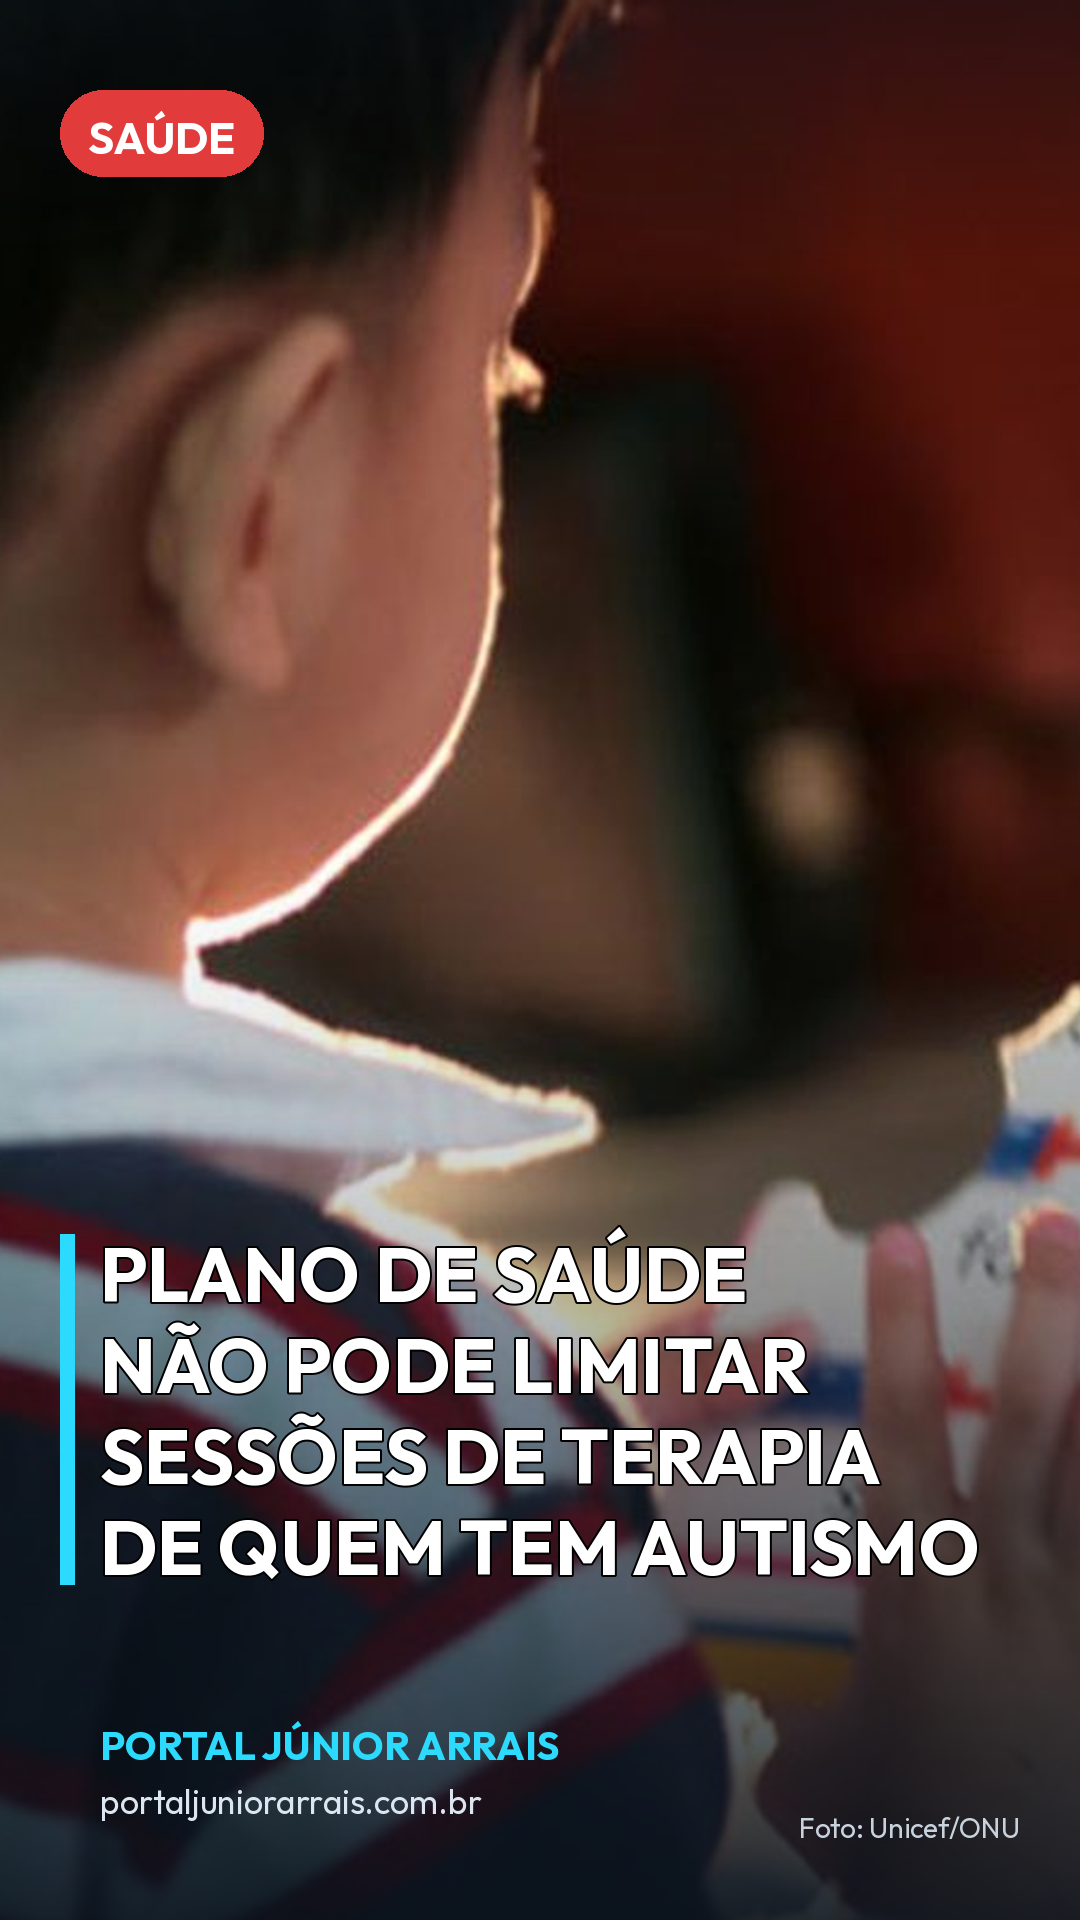
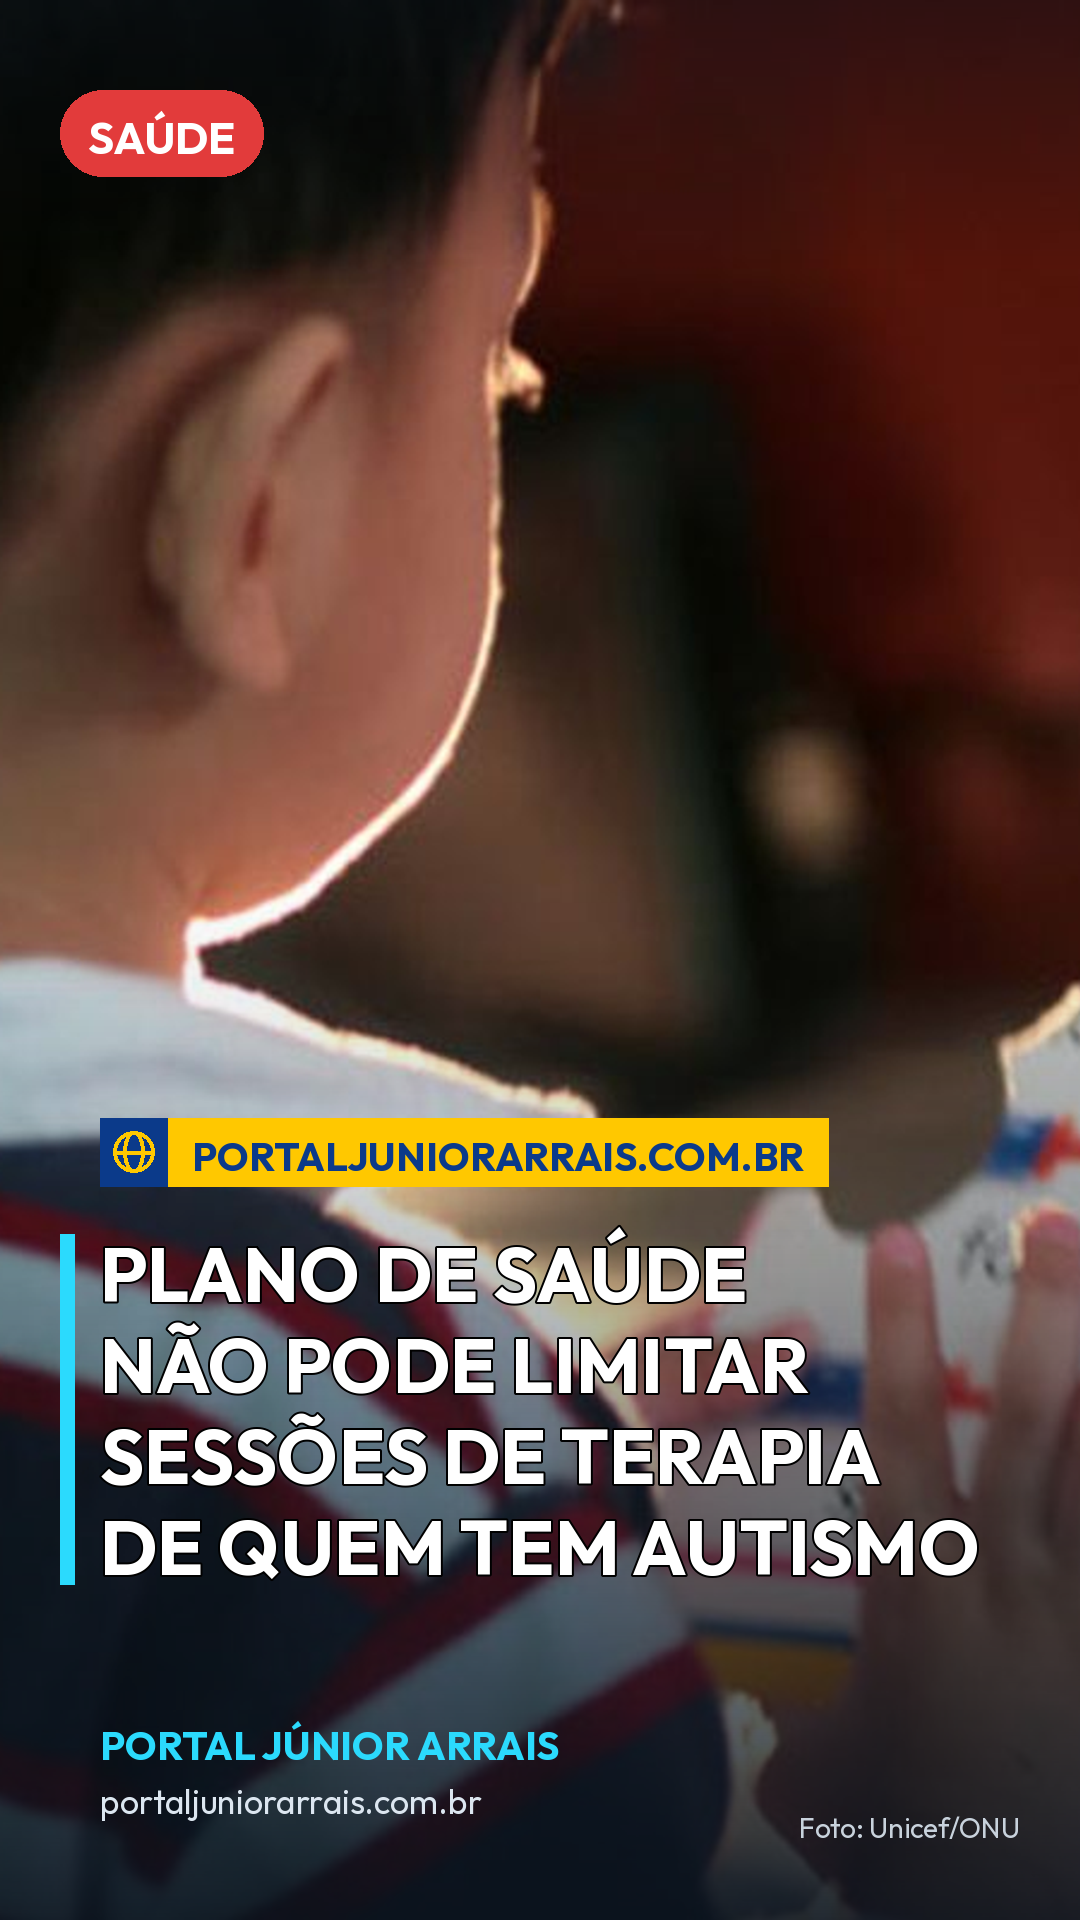
Story: faixa do endereco do portal acima da manchete

Changed region(s): [[0.0917, 0.5625, 0.7639, 0.625]]

diff --git a/scripts/gerar_story.py b/scripts/gerar_story.py
@@ -76,6 +76,25 @@ while tam>40:
     if max(dr.textlength(l,font=f_t) for l in linhas) <= W-180: break
     tam-=4
 lh=int(tam*1.2); y0=H-330-lh*len(linhas)
+
+# faixa do endereço, acima da manchete: bloco azul com globo + tarja amarela.
+# Serve para quem vê o story sem tocar em nada — o endereço fica visível sempre,
+# independente da figurinha de link (que a API não publica).
+AMARELO=(255,200,0); AZUL_FAIXA=(11,58,138)
+f_site=fonte("Bold",40)
+site="PORTALJUNIORARRAIS.COM.BR"
+sw=dr.textlength(site,font=f_site)
+fx0,fy0=100,y0-108
+alt_f=68
+dr.rectangle([fx0,fy0,fx0+alt_f,fy0+alt_f],fill=AZUL_FAIXA)
+# globo simplificado
+cx,cy,r=fx0+alt_f/2,fy0+alt_f/2,alt_f*0.30
+dr.ellipse([cx-r,cy-r,cx+r,cy+r],outline=AMARELO,width=4)
+dr.line([(cx-r,cy),(cx+r,cy)],fill=AMARELO,width=4)
+dr.ellipse([cx-r*0.5,cy-r,cx+r*0.5,cy+r],outline=AMARELO,width=4)
+dr.rectangle([fx0+alt_f,fy0,fx0+alt_f+sw+48,fy0+alt_f],fill=AMARELO)
+dr.text((fx0+alt_f+24,fy0+13),site,font=f_site,fill=AZUL_FAIXA)
+
 dr.rectangle([60,y0+8,74,y0+lh*len(linhas)-6],fill=CIANO)
 for i,l in enumerate(linhas):
     dr.text((100,y0+i*lh),l,font=f_t,fill=(255,255,255),stroke_width=2,stroke_fill=(0,0,0))
